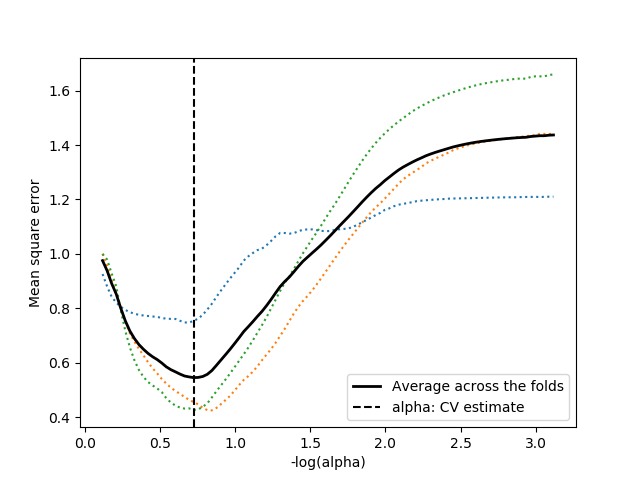
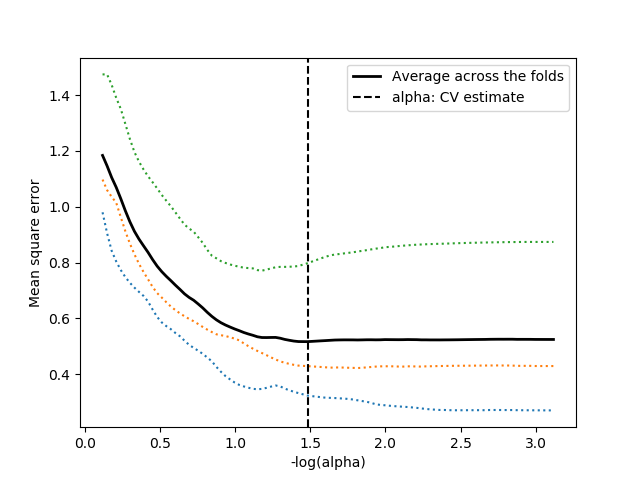
Generate Pelican site

diff --git a/searchindex.js b/searchindex.js
@@ -1,1 +1,1 @@
-Search.setIndex({docnames:["api","auto_examples/index","auto_examples/plot_finance_path","auto_examples/plot_lasso_cv","auto_examples/plot_leukemia_path","generated/celer.Lasso","generated/celer.LassoCV","generated/celer.celer","generated/celer.celer_path","index"],envversion:53,filenames:["api.rst","auto_examples/index.rst","auto_examples/plot_finance_path.rst","auto_examples/plot_lasso_cv.rst","auto_examples/plot_leukemia_path.rst","generated/celer.Lasso.rst","generated/celer.LassoCV.rst","generated/celer.celer.rst","generated/celer.celer_path.rst","index.rst"],objects:{"celer.Lasso":{__init__:[5,1,1,""]},"celer.LassoCV":{__init__:[6,1,1,""]},celer:{Lasso:[5,0,1,""],LassoCV:[6,0,1,""],celer:[7,2,1,""],celer_path:[8,2,1,""]}},objnames:{"0":["py","class","Python class"],"1":["py","method","Python method"],"2":["py","function","Python function"]},objtypes:{"0":"py:class","1":"py:method","2":"py:function"},terms:{"00e":[],"01e":[],"02e":[],"03e":[],"05e":[],"06e":[],"07e":[],"08e":[],"09e":[],"10e":[],"11e":[],"12e":[],"13e":[],"14e":[],"15e":[],"16e":[],"18e":[],"19e":[],"20e":[],"21e":[],"22e":[],"23e":[],"24e":[],"25e":[],"26e":[],"27e":[],"28e":[],"29e":[],"2_2":[5,6],"30e":[],"31e":[],"32e":[],"33e":[],"34e":[],"35e":[],"36e":[],"37e":[],"38e":[],"39e":[],"40e":[],"42e":[],"43e":[],"45e":[],"46e":[],"47e":[],"48e":[],"49e":[],"50e":[],"51e":[],"52e":[],"53e":[],"54e":[],"55e":[],"56e":[],"57e":[],"58e":[],"59e":[],"60e":[],"61e":[],"62e":[],"63e":[],"64e":[],"65e":[],"66e":[],"67e":[],"68e":[],"69e":[],"70e":[],"71e":[],"72e":[],"73e":[],"74e":[],"75e":[],"76e":[],"77e":[],"78e":[],"79e":[],"80e":[],"81e":[],"82e":[],"83e":[],"84e":[],"85e":[],"86e":[],"87e":[],"88e":[],"89e":[],"90e":[],"91e":[],"92e":[],"93e":[],"94e":[],"95e":[],"96e":[],"97e":[],"98e":[],"99e":[],"boolean":6,"class":[5,6],"default":[5,6],"float":[3,4,5,6,7,8],"function":[0,5,6,7],"import":[2,3,4,5,9],"int":[5,6,7,8],"return":[7,8],"true":[2,4,6,8],"try":2,For:[5,6],The:[2,3,4,5,6,7,8],Then:9,__doc__:[2,3,4],__init__:[5,6],_alpha:8,abs:[2,4,5,9],acceler:7,across:3,activ:9,add:[],advis:5,alexandr:9,algorithm:[2,3,4,7,9],all:1,along:[6,8],alpha:[2,3,4,5,6,7,8],alpha_:[3,6],alpha_max:[2,4,6,8],alpha_min:[6,8],alphas_:[3,6],alreadi:6,amount:[5,6,8],anaconda:9,ani:9,argument:[],arrai:[5,6,7,8],arxiv:[5,9],asfortranarrai:[3,4],astyp:[3,4],attribut:[5,6],auto:6,auto_examples_jupyt:1,auto_examples_python:1,automat:[6,8],avail:9,averag:3,avoid:[7,8],axi:3,axvlin:3,base:[5,6],below:7,best:6,beta:[2,4,5,6,7],beta_init:7,between:[5,7,8],bool:[5,6,8],bz2:[],calcul:6,call:7,can:9,celer:[2,3,4],celer_path:[2,4,5,6],center:6,check:9,chosen:6,cjlin:[],clf:5,clone:9,cntrol:[],coars:[2,4],code:[1,2,3,4,9],coef:[2,4,8],coef_:[5,6],coeffici:[7,8],color:3,column:[7,8],com:9,compil:9,comput:[1,5,6,7,8],conda:9,constant:5,constraint:9,construct:2,contigu:[7,8],continu:[],control:9,converg:[],coordin:[5,6,7,8],copy_x:[],cost:[5,6],creat:9,cross:[1,6],csc:[7,8],csie:[],cyclic:[],cython:9,data:[2,3,4,6,7,8],dataset:1,decis:[5,6],definit:[5,6,7,8],dens:4,dep:9,descent:[5,6,7,8],determin:6,did:[],directli:[7,8],displai:3,distribut:9,docstr:[],doctest:[],document:9,don:9,dot:[2,4],download:[1,2,3,4],download_preprocess_fin:2,dual:[5,6,7,8,9],dual_gap:[4,8],dual_gap_:6,dualiti:[5,6,7,8],duplic:[7,8],e2006:[],each:[5,6,7,8],earli:[],edu:[],elaps:7,elimin:9,ellipsi:[],els:[2,4],enabl:9,end:6,enter:7,enumer:[2,4],env:9,environ:9,epoch:[5,7,8],eps:[6,8],equival:5,error:[3,6,9],estim:[0,3,5,6,7],everi:7,everyth:9,exampl:[2,3,4,5],example_util:[],examples_util:2,except:2,exit:7,expect:6,extrapol:[5,9],fals:[2,3,6,8],faster:[5,9],featur:9,fetch_mldata:[3,4],fig:[2,4],figsiz:[2,4],figur:3,file:9,filenotfounderror:2,final_gap:[],financ:1,finance_data_preprocess:2,finance_target_preprocess:2,fine:[2,4,9],first:[5,7,8,9],fit:[3,5,6],fit_intercept:[3,5,6],fold:[3,6],format:[7,8],formula:[5,6],fortran:[7,8],from:[2,3,4,5],galleri:[2,3,4],gap:[2,4,5,6,7,8],gap_freq:[2,4,5,6,7,8],gener:[1,2,3,4,6],git:9,github:9,give:9,given:[],goe:7,gramfort:[5,9],grid:[2,4,6],grow:[5,7,8],home:[],http:[5,9],identif:9,importerror:[],independ:6,initi:7,inner:[7,8],input:6,integ:[5,6,8],intercept:[5,6],intercept_:[5,6],ipynb:[2,3,4],iter:[5,6,7,8],joseph:9,jupyt:[1,2,3,4],kfold:6,label:[2,3,4],lasso:[1,6,7,8,9],lasso_path:4,lassocv:[1,5],last:[],learn:[3,4,5,6],least:5,legend:3,len:[2,3,4],length:[6,8],leukemia:1,level:7,librari:9,libsvmtool:[],like:[3,7,8],linalg:[],line:[],linear_model:4,linearregress:[],linestyl:3,linewidth:3,list:[6,8,9],load:[2,3,4],load_npz:2,log10:3,log1p:1,log:3,logspac:[2,4],loop:7,m_log_alpha:3,mai:2,massia:[5,9],mathurin:9,mathurinm:9,matplotlib:[2,3,4],matrix:[7,8],max:[2,4],max_epoch:[5,6,7,8],max_epoch_inn:[],max_epochs_inn:[],max_it:[2,4,5,6,7,8],maximum:[5,6,7,8],mean:[3,4,6,8],memori:[7,8],messag:9,method:[5,6],minim:7,minut:[2,3,4],model:[3,6,8],modul:[],more:2,most:[],mse_path_:[3,6],multipli:5,n_alpha:[2,4,6,8],n_featur:[5,6,7,8],n_fold:6,n_iter_:[5,6],n_sampl:[2,3,4,5,6,7,8],n_target:[],name:[],ndarrai:[6,8],need:9,none:[2,4,6,7,8],norm:[],normal:6,note:[],notebook:[1,2,3,4],npy:2,npz:2,ntu:[],number:[5,6,7,8],numer:5,numpi:[2,3,4,6],object:[5,6,7],observ:7,onli:8,optim:[5,6,7,8,9],option:[5,6,7,8],ordinari:5,org:[5,9],out:[2,3,4],outer:7,packag:9,paper:[],paramet:[2,3,5,6,7,8],pass:[7,8],path:[1,6,8],penal:6,pip:9,plot:3,plot_finance_path:2,plot_lasso_cv:3,plot_leukemia_path:4,plot_path_hist:[2,4],plot_util:[2,4],plt:[2,3,4],point:[7,9],posit:[],possibl:6,potenti:7,precomput:6,preprint:[5,9],preprocess:2,print:[2,3,4,5],prune:[2,4,5,6,7,8],pyplot:[2,3,4],python:[1,2,3,4,9],quick:9,r11:5,random_st:[],reach:[5,6,7,8],reason:5,recent:[],recommend:9,ref:[],refer:5,regress:[],regular:[2,3,6,7,8],repositori:9,res:[2,4],residu:9,result:[2,3,4],return_theta:[2,4,8],run:[1,2,4,5,6,8,9],salmon:[5,9],scikit:[3,4,5,6],scipi:2,script:[2,3,4],second:[2,3,4],see:[],select:6,set:[5,6,7,8],sever:2,shape:[2,5,6,7,8],should:9,show:[2,3,4],sinc:7,size:[5,7,8],sklearn:[3,4,6],smaller:[5,6,8],solut:7,solv:5,solver:[5,6,7,8,9],sourc:[1,2,3,4,9],spars:[2,7,8],specifi:[5,6],sphinx:[1,2,3,4],split:6,squar:[3,5,6],start:[2,4],std:4,stop:7,strategi:6,subproblem:[5,6,7,8],successfulli:[],take:2,target:[3,4,8],term:[5,6],test:6,than:[2,5,6,8],theta:[2,4,7,8],thi:[2,6,9],tight:[3,9],time:[2,3,4,7],tol:[2,4,5,6,7,8],tol_ix:[2,4],toler:[5,6,7,8],total:[2,3,4],traceback:[],train:[6,7,8],unnecessari:[7,8],until:[5,6,8],updat:[],use:[5,6,7,8,9],used:6,uses:9,using:[3,5],valid:[1,6],valu:[7,8],vari:6,variabl:8,vector:[5,6,7],verbos:[2,4,5,6,7,8],verbose_inn:[2,4,7,8],want:9,warm_start:[],warn:2,when:[5,7,8],where:[6,8],whether:[5,6,7,8],which:9,why:[],work:[5,7,8,9],workspac:[],www:[],xlabel:3,xxx:[],yield:6,ylabel:3,ylim:[2,4],yml:9,you:9,zero:[2,4],zip:1},titles:["API Documentation","Examples Gallery","Lasso path computation on Finance/log1p dataset","Run LassoCV for cross-validation on Leukemia dataset","Lasso path computation on Leukemia dataset","celer.Lasso","celer.LassoCV","celer.celer","celer.celer_path","Celer"],titleterms:{api:[0,9],celer:[0,5,6,7,8,9],celer_path:8,cite:9,comput:[2,4],cross:3,dataset:[2,3,4],document:0,exampl:1,financ:2,galleri:1,instal:9,lasso:[2,4,5],lassocv:[3,6],leukemia:[3,4],log1p:2,path:[2,4],run:3,valid:3}})
+Search.setIndex({docnames:["api","auto_examples/index","auto_examples/plot_finance_path","auto_examples/plot_lasso_cv","auto_examples/plot_leukemia_path","generated/celer.Lasso","generated/celer.LassoCV","generated/celer.celer","generated/celer.celer_path","index"],envversion:53,filenames:["api.rst","auto_examples/index.rst","auto_examples/plot_finance_path.rst","auto_examples/plot_lasso_cv.rst","auto_examples/plot_leukemia_path.rst","generated/celer.Lasso.rst","generated/celer.LassoCV.rst","generated/celer.celer.rst","generated/celer.celer_path.rst","index.rst"],objects:{"celer.Lasso":{__init__:[5,1,1,""]},"celer.LassoCV":{__init__:[6,1,1,""]},celer:{Lasso:[5,0,1,""],LassoCV:[6,0,1,""],celer:[7,2,1,""],celer_path:[8,2,1,""]}},objnames:{"0":["py","class","Python class"],"1":["py","method","Python method"],"2":["py","function","Python function"]},objtypes:{"0":"py:class","1":"py:method","2":"py:function"},terms:{"00e":[],"01e":[],"02e":[],"03e":[],"05e":[],"06e":[],"07e":[],"08e":[],"09e":[],"10e":[],"11e":[],"12e":[],"13e":[],"14e":[],"15e":[],"16e":[],"18e":[],"19e":[],"20e":[],"21e":[],"22e":[],"23e":[],"24e":[],"25e":[],"26e":[],"27e":[],"28e":[],"29e":[],"2_2":[5,6],"30e":[],"31e":[],"32e":[],"33e":[],"34e":[],"35e":[],"36e":[],"37e":[],"38e":[],"39e":[],"40e":[],"42e":[],"43e":[],"45e":[],"46e":[],"47e":[],"48e":[],"49e":[],"50e":[],"51e":[],"52e":[],"53e":[],"54e":[],"55e":[],"56e":[],"57e":[],"58e":[],"59e":[],"60e":[],"61e":[],"62e":[],"63e":[],"64e":[],"65e":[],"66e":[],"67e":[],"68e":[],"69e":[],"70e":[],"71e":[],"72e":[],"73e":[],"74e":[],"75e":[],"76e":[],"77e":[],"78e":[],"79e":[],"80e":[],"81e":[],"82e":[],"83e":[],"84e":[],"85e":[],"86e":[],"87e":[],"88e":[],"89e":[],"90e":[],"91e":[],"92e":[],"93e":[],"94e":[],"95e":[],"96e":[],"97e":[],"98e":[],"99e":[],"boolean":6,"class":[5,6],"default":[5,6],"float":[3,4,5,6,7,8],"function":[0,5,6,7],"import":[2,3,4,5,9],"int":[5,6,7,8],"return":[7,8],"true":[2,4,5,6,8],"try":2,For:[5,6],The:[2,3,4,5,6,7,8],Then:9,__doc__:[2,3,4],__init__:[5,6],_alpha:8,abs:[2,4,5,9],acceler:7,across:3,activ:9,add:[],advis:5,alexandr:9,algorithm:[2,3,4,7,9],all:1,along:[6,8],alpha:[2,3,4,5,6,7,8],alpha_:[3,6],alpha_max:[2,4,6,8],alpha_min:[6,8],alphas_:[3,6],alreadi:6,amount:[5,6,8],anaconda:9,ani:9,argument:[],arrai:[5,6,7,8],arxiv:[5,9],asfortranarrai:[3,4],astyp:[3,4],attribut:[5,6],auto:6,auto_examples_jupyt:1,auto_examples_python:1,automat:[6,8],avail:9,averag:3,avoid:[7,8],axi:3,axvlin:3,base:[5,6],below:7,best:6,beta:[2,4,5,6,7],beta_init:7,between:[5,7,8],bool:[5,6,8],bz2:[],calcul:6,call:7,can:9,celer:[2,3,4],celer_path:[2,4,5,6],center:6,check:9,chosen:6,cjlin:[],clf:5,clone:9,cntrol:[],coars:[2,4],code:[1,2,3,4,9],coef:[2,4,8],coef_:[5,6],coeffici:[7,8],color:3,column:[7,8],com:9,compil:9,comput:[1,5,6,7,8],conda:9,constant:5,constraint:9,construct:2,contigu:[7,8],continu:[],control:9,converg:[],coordin:[5,6,7,8],copy_x:[],cost:[5,6],creat:9,cross:[1,6],csc:[7,8],csie:[],cyclic:[],cython:9,data:[2,3,4,6,7,8],dataset:1,decis:[5,6],definit:[5,6,7,8],dens:4,dep:9,descent:[5,6,7,8],determin:6,did:[],directli:[7,8],displai:3,distribut:9,docstr:[],doctest:[],document:9,don:9,dot:[2,4],download:[1,2,3,4],download_preprocess_fin:2,dual:[5,6,7,8,9],dual_gap:[4,8],dual_gap_:6,dualiti:[5,6,7,8],duplic:[7,8],e2006:[],each:[5,6,7,8],earli:[],edu:[],elaps:7,elimin:9,ellipsi:[],els:[2,4],enabl:9,end:6,enter:7,enumer:[2,4],env:9,environ:9,epoch:[5,7,8],eps:[6,8],equival:5,error:[3,6,9],estim:[0,3,5,6,7],everi:7,everyth:9,exampl:[2,3,4,5],example_util:[],examples_util:2,except:2,exit:7,expect:6,extrapol:[5,9],fals:[2,6,8],faster:[5,9],featur:9,fetch_mldata:[3,4],fig:[2,4],figsiz:[2,4],figur:3,file:9,filenotfounderror:2,final_gap:[],financ:1,finance_data_preprocess:2,finance_target_preprocess:2,fine:[2,4,9],first:[5,7,8,9],fit:[3,5,6],fit_intercept:[5,6],fold:[3,6],format:[7,8],formula:[5,6],fortran:[7,8],from:[2,3,4,5],galleri:[2,3,4],gap:[2,4,5,6,7,8],gap_freq:[2,4,5,6,7,8],gener:[1,2,3,4,6],git:9,github:9,give:9,given:[],goe:7,gramfort:[5,9],grid:[2,4,6],grow:[5,7,8],home:[],http:[5,9],identif:9,importerror:[],independ:6,initi:7,inner:[7,8],input:6,integ:[5,6,8],intercept:[5,6],intercept_:[5,6],ipynb:[2,3,4],iter:[5,6,7,8],joseph:9,jupyt:[1,2,3,4],kfold:6,label:[2,3,4],lasso:[1,6,7,8,9],lasso_path:4,lassocv:[1,5],last:[],learn:[3,4,5,6],least:5,legend:3,len:[2,3,4],length:[6,8],leukemia:1,level:7,librari:9,libsvmtool:[],like:[3,7,8],linalg:[],line:[],linear_model:4,linearregress:[],linestyl:3,linewidth:3,list:[6,8,9],load:[2,3,4],load_npz:2,log10:3,log1p:1,log:3,logspac:[2,4],loop:7,m_log_alpha:3,mai:2,massia:[5,9],mathurin:9,mathurinm:9,matplotlib:[2,3,4],matrix:[7,8],max:[2,4],max_epoch:[5,6,7,8],max_epoch_inn:[],max_epochs_inn:[],max_it:[2,4,5,6,7,8],maximum:[5,6,7,8],mean:[3,4,6,8],memori:[7,8],messag:9,method:[5,6],minim:7,minut:[2,3,4],model:[3,6,8],modul:[],more:2,most:[],mse_path_:[3,6],multipli:5,n_alpha:[2,4,6,8],n_featur:[5,6,7,8],n_fold:6,n_iter_:[5,6],n_sampl:[2,3,4,5,6,7,8],n_target:[],name:[],ndarrai:[6,8],need:9,none:[2,4,6,7,8],norm:[],normal:6,note:[],notebook:[1,2,3,4],npy:2,npz:2,ntu:[],number:[5,6,7,8],numer:5,numpi:[2,3,4,6],object:[5,6,7],observ:7,onli:8,optim:[5,6,7,8,9],option:[5,6,7,8],ordinari:5,org:[5,9],out:[2,3,4],outer:7,packag:9,paper:[],paramet:[2,3,5,6,7,8],pass:[7,8],path:[1,6,8],penal:6,pip:9,plot:3,plot_finance_path:2,plot_lasso_cv:3,plot_leukemia_path:4,plot_path_hist:[2,4],plot_util:[2,4],plt:[2,3,4],point:[7,9],posit:[],possibl:6,potenti:7,precomput:6,preprint:[5,9],preprocess:2,print:[2,3,4,5],prune:[2,4,5,6,7,8],pyplot:[2,3,4],python:[1,2,3,4,9],quick:9,r11:5,random_st:[],reach:[5,6,7,8],reason:5,recent:[],recommend:9,ref:[],refer:5,regress:[],regular:[2,3,6,7,8],repositori:9,res:[2,4],residu:9,result:[2,3,4],return_theta:[2,4,8],run:[1,2,4,5,6,8,9],salmon:[5,9],scikit:[3,4,5,6],scipi:2,script:[2,3,4],second:[2,3,4],see:[],select:6,set:[5,6,7,8],sever:2,shape:[2,5,6,7,8],should:9,show:[2,3,4],sinc:7,size:[5,7,8],sklearn:[3,4,6],smaller:[5,6,8],solut:7,solv:5,solver:[5,6,7,8,9],sourc:[1,2,3,4,9],spars:[2,7,8],specifi:[5,6],sphinx:[1,2,3,4],split:6,squar:[3,5,6],start:[2,4],std:4,stop:7,strategi:6,subproblem:[5,6,7,8],successfulli:[],take:2,target:[3,4,8],term:[5,6],test:6,than:[2,5,6,8],theta:[2,4,7,8],thi:[2,6,9],tight:[3,9],time:[2,3,4,7],tol:[2,4,5,6,7,8],tol_ix:[2,4],toler:[5,6,7,8],total:[2,3,4],traceback:[],train:[6,7,8],unnecessari:[7,8],until:[5,6,8],updat:[],use:[5,6,7,8,9],used:6,uses:9,using:[3,5],valid:[1,6],valu:[7,8],vari:6,variabl:8,vector:[5,6,7],verbos:[2,4,5,6,7,8],verbose_inn:[2,4,7,8],want:9,warm_start:[],warn:2,when:[5,7,8],where:[6,8],whether:[5,6,7,8],which:9,why:[],work:[5,7,8,9],workspac:[],www:[],xlabel:3,xxx:[],yield:6,ylabel:3,ylim:[2,4],yml:9,you:9,zero:[2,4],zip:1},titles:["API Documentation","Examples Gallery","Lasso path computation on Finance/log1p dataset","Run LassoCV for cross-validation on Leukemia dataset","Lasso path computation on Leukemia dataset","celer.Lasso","celer.LassoCV","celer.celer","celer.celer_path","Celer"],titleterms:{api:[0,9],celer:[0,5,6,7,8,9],celer_path:8,cite:9,comput:[2,4],cross:3,dataset:[2,3,4],document:0,exampl:1,financ:2,galleri:1,instal:9,lasso:[2,4,5],lassocv:[3,6],leukemia:[3,4],log1p:2,path:[2,4],run:3,valid:3}})

diff --git a/auto_examples/plot_finance_path.html b/auto_examples/plot_finance_path.html
@@ -165,15 +165,14 @@
 
 <span class="n">gap_freq</span> <span class="o">=</span> <span class="mi">10</span>
 <span class="n">prune</span> <span class="o">=</span> <span class="mi">1</span>
-<span class="n">verbose</span> <span class="o">=</span> <span class="mi">0</span>
-<span class="n">verbose_inner</span> <span class="o">=</span> <span class="mi">0</span>
 
+<span class="c1"># tols = [1e-2, 1e-4]</span>
 <span class="n">tols</span> <span class="o">=</span> <span class="p">[</span><span class="mf">1e-2</span><span class="p">,</span> <span class="mf">1e-4</span><span class="p">,</span> <span class="mf">1e-6</span><span class="p">]</span>
 <span class="n">results</span> <span class="o">=</span> <a href="https://docs.scipy.org/doc/numpy/reference/generated/numpy.zeros.html#numpy.zeros" title="View documentation for numpy.zeros"><span class="n">np</span><span class="o">.</span><span class="n">zeros</span></a><span class="p">([</span><span class="mi">1</span><span class="p">,</span> <span class="nb">len</span><span class="p">(</span><span class="n">tols</span><span class="p">)])</span>
 <span class="k">for</span> <span class="n">tol_ix</span><span class="p">,</span> <span class="n">tol</span> <span class="ow">in</span> <span class="nb">enumerate</span><span class="p">(</span><span class="n">tols</span><span class="p">):</span>
     <span class="n">t0</span> <span class="o">=</span> <span class="n">time</span><span class="o">.</span><span class="n">time</span><span class="p">()</span>
     <span class="n">res</span> <span class="o">=</span> <a href="../generated/celer.celer_path.html#celer.celer_path" title="View documentation for celer.celer_path"><span class="n">celer_path</span></a><span class="p">(</span><span class="n">X</span><span class="p">,</span> <span class="n">y</span><span class="p">,</span> <span class="n">alphas</span><span class="o">=</span><span class="n">alphas</span><span class="p">,</span> <span class="n">max_iter</span><span class="o">=</span><span class="mi">100</span><span class="p">,</span> <span class="n">gap_freq</span><span class="o">=</span><span class="n">gap_freq</span><span class="p">,</span>
-                     <span class="n">p0</span><span class="o">=</span><span class="mi">100</span><span class="p">,</span> <span class="n">verbose</span><span class="o">=</span><span class="n">verbose</span><span class="p">,</span> <span class="n">verbose_inner</span><span class="o">=</span><span class="n">verbose_inner</span><span class="p">,</span>
+                     <span class="n">p0</span><span class="o">=</span><span class="mi">100</span><span class="p">,</span> <span class="n">verbose</span><span class="o">=</span><span class="mi">0</span><span class="p">,</span> <span class="n">verbose_inner</span><span class="o">=</span><span class="mi">0</span><span class="p">,</span>
                      <span class="n">tol</span><span class="o">=</span><span class="n">tol</span><span class="p">,</span> <span class="n">prune</span><span class="o">=</span><span class="n">prune</span><span class="p">,</span> <span class="n">return_thetas</span><span class="o">=</span><span class="bp">True</span><span class="p">)</span>
     <span class="n">results</span><span class="p">[</span><span class="mi">0</span><span class="p">,</span> <span class="n">tol_ix</span><span class="p">]</span> <span class="o">=</span> <span class="n">time</span><span class="o">.</span><span class="n">time</span><span class="p">()</span> <span class="o">-</span> <span class="n">t0</span>
     <span class="n">_</span><span class="p">,</span> <span class="n">coefs</span><span class="p">,</span> <span class="n">gaps</span><span class="p">,</span> <span class="n">thetas</span> <span class="o">=</span> <span class="n">res</span>
@@ -185,7 +184,7 @@
 <a href="https://matplotlib.org/api/_as_gen/matplotlib.pyplot.show.html#matplotlib.pyplot.show" title="View documentation for matplotlib.pyplot.show"><span class="n">plt</span><span class="o">.</span><span class="n">show</span></a><span class="p">()</span>
 </pre></div>
 </div>
-<p><strong>Total running time of the script:</strong> ( 0 minutes  53.643 seconds)</p>
+<p><strong>Total running time of the script:</strong> ( 3 minutes  57.466 seconds)</p>
 <div class="sphx-glr-footer container">
 <div class="sphx-glr-download container">
 <a class="reference download internal" href="../_downloads/plot_finance_path.py" download=""><code class="xref download docutils literal"><span class="pre">Download</span> <span class="pre">Python</span> <span class="pre">source</span> <span class="pre">code:</span> <span class="pre">plot_finance_path.py</span></code></a></div>

diff --git a/auto_examples/plot_lasso_cv.html b/auto_examples/plot_lasso_cv.html
@@ -122,7 +122,7 @@ using the Celer algorithm.</p>
 <img alt="../_images/sphx_glr_plot_lasso_cv_001.png" class="align-center" src="../_images/sphx_glr_plot_lasso_cv_001.png" />
 <p class="sphx-glr-script-out">Out:</p>
 <div class="sphx-glr-script-out highlight-default"><div class="highlight"><pre><span></span><span class="n">Loading</span> <span class="n">data</span><span class="o">...</span>
-<span class="n">Estimated</span> <span class="n">regularization</span> <span class="n">parameter</span> <span class="n">alpha</span><span class="p">:</span> <span class="mf">0.188666950702</span>
+<span class="n">Estimated</span> <span class="n">regularization</span> <span class="n">parameter</span> <span class="n">alpha</span><span class="p">:</span> <span class="mf">0.032970086368</span>
 </pre></div>
 </div>
 <div class="line-block">
@@ -143,7 +143,7 @@ using the Celer algorithm.</p>
 <span class="n">y</span> <span class="o">=</span> <span class="n">dataset</span><span class="o">.</span><span class="n">target</span><span class="o">.</span><span class="n">astype</span><span class="p">(</span><span class="nb">float</span><span class="p">)</span>
 <span class="n">n_samples</span> <span class="o">=</span> <span class="nb">len</span><span class="p">(</span><span class="n">y</span><span class="p">)</span>
 
-<span class="n">model</span> <span class="o">=</span> <span class="n">LassoCV</span><span class="p">(</span><span class="n">fit_intercept</span><span class="o">=</span><span class="bp">False</span><span class="p">)</span>
+<span class="n">model</span> <span class="o">=</span> <span class="n">LassoCV</span><span class="p">()</span>
 <span class="n">model</span><span class="o">.</span><span class="n">fit</span><span class="p">(</span><span class="n">X</span><span class="p">,</span> <span class="n">y</span><span class="p">)</span>
 
 <span class="k">print</span><span class="p">(</span><span class="s2">&quot;Estimated regularization parameter alpha: </span><span class="si">%s</span><span class="s2">&quot;</span> <span class="o">%</span> <span class="n">model</span><span class="o">.</span><span class="n">alpha_</span><span class="p">)</span>
@@ -166,7 +166,7 @@ using the Celer algorithm.</p>
 <a href="https://matplotlib.org/api/_as_gen/matplotlib.pyplot.show.html#matplotlib.pyplot.show" title="View documentation for matplotlib.pyplot.show"><span class="n">plt</span><span class="o">.</span><span class="n">show</span></a><span class="p">()</span>
 </pre></div>
 </div>
-<p><strong>Total running time of the script:</strong> ( 0 minutes  0.888 seconds)</p>
+<p><strong>Total running time of the script:</strong> ( 0 minutes  0.990 seconds)</p>
 <div class="sphx-glr-footer container">
 <div class="sphx-glr-download container">
 <a class="reference download internal" href="../_downloads/plot_lasso_cv.py" download=""><code class="xref download docutils literal"><span class="pre">Download</span> <span class="pre">Python</span> <span class="pre">source</span> <span class="pre">code:</span> <span class="pre">plot_lasso_cv.py</span></code></a></div>

diff --git a/_downloads/plot_finance_path.py b/_downloads/plot_finance_path.py
@@ -43,15 +43,14 @@ alphas = alpha_max * np.logspace(0, -2, n_alphas)
 
 gap_freq = 10
 prune = 1
-verbose = 0
-verbose_inner = 0
 
+# tols = [1e-2, 1e-4]
 tols = [1e-2, 1e-4, 1e-6]
 results = np.zeros([1, len(tols)])
 for tol_ix, tol in enumerate(tols):
     t0 = time.time()
     res = celer_path(X, y, alphas=alphas, max_iter=100, gap_freq=gap_freq,
-                     p0=100, verbose=verbose, verbose_inner=verbose_inner,
+                     p0=100, verbose=0, verbose_inner=0,
                      tol=tol, prune=prune, return_thetas=True)
     results[0, tol_ix] = time.time() - t0
     _, coefs, gaps, thetas = res

diff --git a/_downloads/plot_lasso_cv.py b/_downloads/plot_lasso_cv.py
@@ -22,7 +22,7 @@ X = np.asfortranarray(dataset.data.astype(float))
 y = dataset.target.astype(float)
 n_samples = len(y)
 
-model = LassoCV(fit_intercept=False)
+model = LassoCV()
 model.fit(X, y)
 
 print("Estimated regularization parameter alpha: %s" % model.alpha_)
